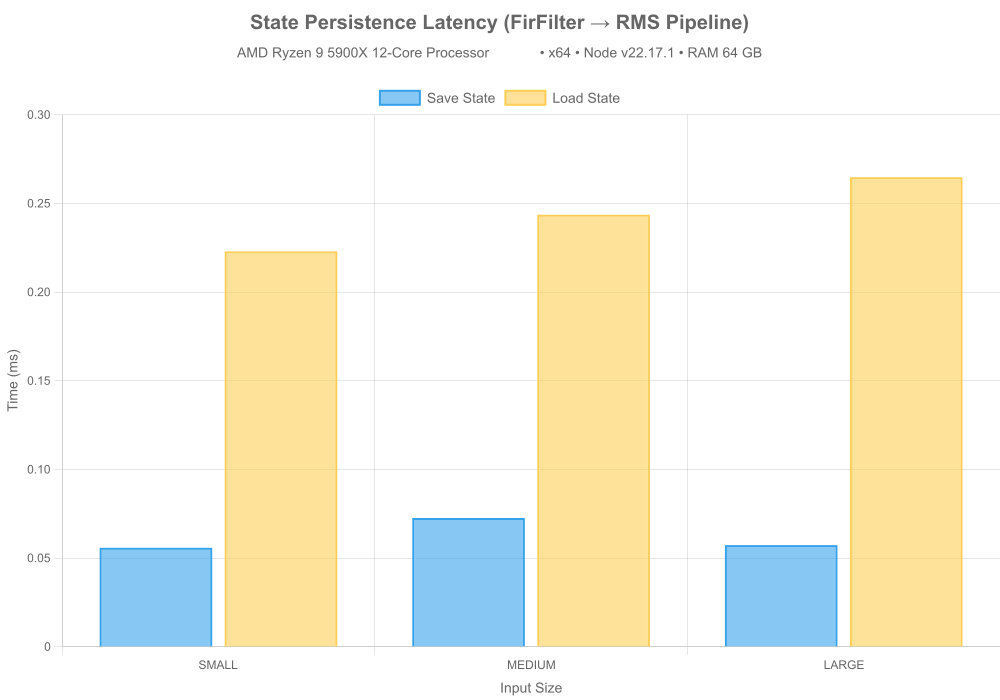
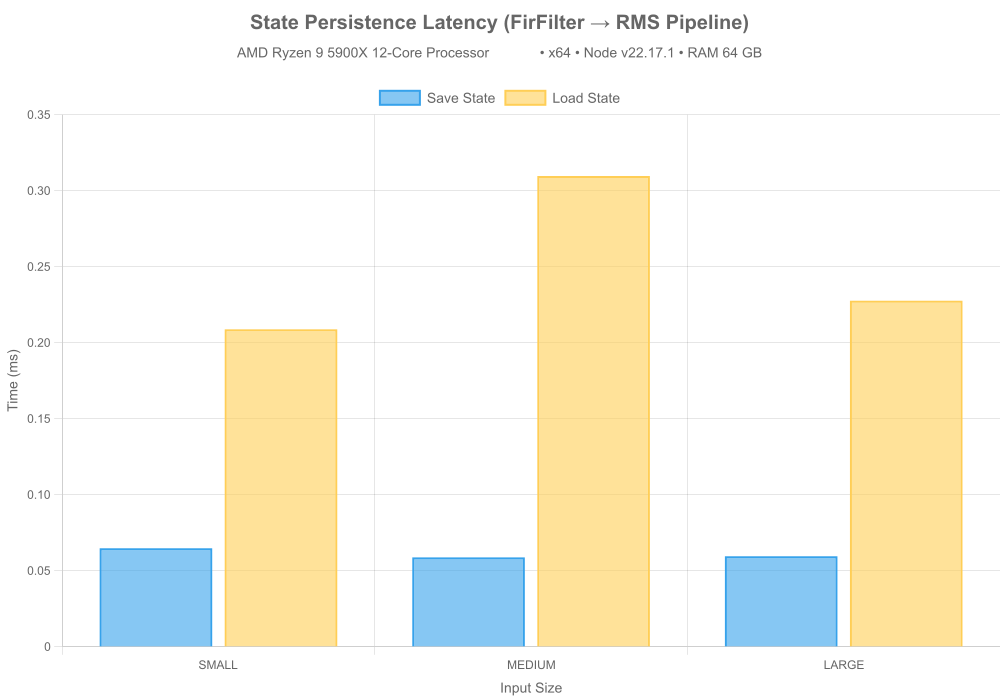
Update Redis pipeline handling and performance metrics for AMD Ryzen 9 5900X

diff --git a/redis.js b/redis.js
@@ -64,7 +64,18 @@ for (const size of INPUT_SIZES) {
   const secondHalf = signal.slice(halfLength);
 
   // --- Create pipeline and process first half ---
-  const pipeline1 = createDspPipeline();
+
+  let pipeline1;
+  if (!redisAvailable) {
+    pipeline1 = createDspPipeline();
+  } else {
+    pipeline1 = createDspPipeline({
+      redisHost: "localhost",
+      redisPort: 6379,
+      stateKey: `dsp:state:${size.name}`,
+    });
+  }
+
   pipeline1
     .filter({
       type: "fir",

diff --git a/reports/BENCHMARKS-amd-ryzen-9-5900x-12-core-processor.md b/reports/BENCHMARKS-amd-ryzen-9-5900x-12-core-processor.md
@@ -1,6 +1,6 @@
 # 🧠 DSPX Benchmarks
 
-**Auto-Generated:** 2025-11-10
+**Auto-Generated:** 2025-11-11
 
 ## Machine Specifications
 
@@ -160,13 +160,13 @@ Testing pipeline state serialization for crash recovery (FirFilter → RMS pipel
 
 | Input Size | Save Time (ms) | Load Time (ms) | State Size | Seamless? |
 |------------|----------------|----------------|------------|-----------|
-| small | 0.056 | 0.223 | 4.15 KB | ✅ |
-| medium | 0.073 | 0.244 | 4.17 KB | ✅ |
-| large | 0.057 | 0.265 | 4.06 KB | ✅ |
+| small | 0.065 | 0.209 | 4.15 KB | ✅ |
+| medium | 0.059 | 0.310 | 4.17 KB | ✅ |
+| large | 0.060 | 0.228 | 4.06 KB | ✅ |
 
 **Performance Metrics:**
-- Average save time: **0.062 ms**
-- Average load time: **0.244 ms**
+- Average save time: **0.061 ms**
+- Average load time: **0.249 ms**
 - Average state size: **4.13 KB**
 - All tests seamless: **✅ YES**
 
@@ -340,5 +340,5 @@ Testing throughput with multiple independent pipelines:
 ---
 
 **Generated by:** dspx benchmark suite v1.0  
-**Date:** 2025-11-10T23:43:21.646Z  
+**Date:** 2025-11-11T15:03:34.791Z  
 **Runtime:** Node.js v22.17.1
